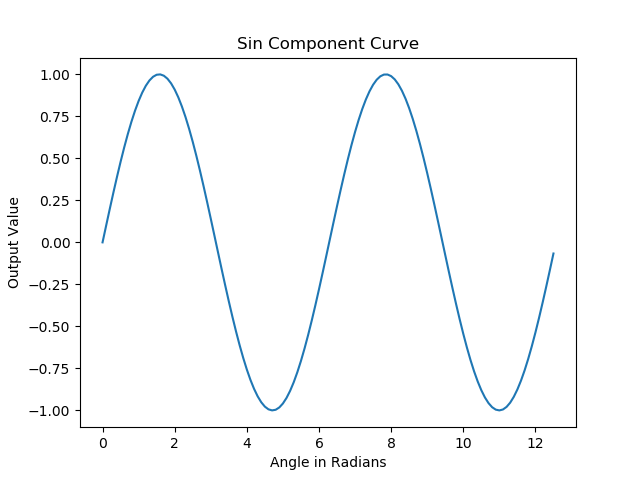
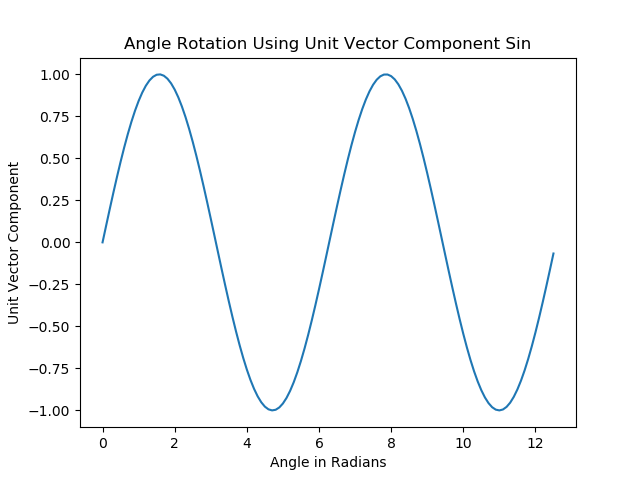
updated results

Changed region(s): [[0.1875, 0.0625, 0.8125, 0.125], [0.0, 0.3438, 0.0312, 0.6875]]

diff --git a/turtles_test/t.py b/turtles_test/t.py
@@ -5,9 +5,9 @@ import numpy as np
 # y = np.sin(x)
 
 # plt.plot(x,y)
-# plt.title('Sin Component Curve')
+# plt.title('Angle Rotation Using Unit Vector Component Sin')
 # plt.xlabel('Angle in Radians')
-# plt.ylabel('Output Value')
+# plt.ylabel('Unit Vector Component')
 # plt.show()
 
 # x = np.arange(0,4*np.pi,0.1)
@@ -16,29 +16,48 @@ import numpy as np
 # y = y-180
 
 # plt.plot(x,y)
-# plt.title('Traditional Angle Curve')
+# plt.title('Angle Rotation Using a Single Output θ')
 # plt.xlabel('Angle in Radians')
-# plt.ylabel('Output Value')
+# plt.ylabel('Rotation in Degrees')
 # plt.yticks(np.arange(-180,181,step=45))
 # plt.show()
 
-x = 1
-y = 1
-y = np.arctan2(y,x)
-plt.plot(x,y)
+# ===================================
 
-x = 2
-y = 1
-y = np.arctan2(y,x)
-plt.plot(x,y)
+all_diff = [2.4583740234375, 0.13848876953125, 1.2057304382324219, 1.9220046997070312, 0.634429931640625, 0.4071044921875, 1.7841796875, 0.54888916015625, 2.3044891357421875, 0.49176025390625, 2.3760986328125, 1.8074493408203125, 0.275390625, 6.0831298828125, 1.618133544921875, 0.852783203125, 0.46462249755859375, 3.6235885620117188, 1.1817626953125, 0.3181610107421875, 0.35687255859375, 3.5180015563964844, 26.41889190673828, 2.295501708984375, 0.4535369873046875, 0.202239990234375, 0.52142333984375, 0.2180004119873047, 2.576751708984375, 1.9674072265625, 5.449432373046875, 1.060882568359375, 1.6855144500732422, 2.6428985595703125, 5.05401611328125, 3.975738525390625, 3.6961212158203125, 1.1099395751953125, 1.2656402587890625, 2.763519287109375, 1.924774169921875, 3.7316436767578125, 0.2851066589355469, 0.331512451171875, 0.0932769775390625, 0.1450958251953125, 36.25994873046875, 0.8679962158203125, 1.16680908203125, 0.02651214599609375, 0.16404342651367188, 1.53875732421875, 3.73492431640625, 0.212738037109375, 1.3660516738891602, 2.692626953125, 0.276123046875, 1.79345703125, 2.396514892578125, 0.7890090942382812, 2.422698974609375, 0.46026611328125, 0.3124237060546875, 0.3054351806640625, 0.1989898681640625, 0.3315086364746094, 1.723480224609375, 2.27825927734375, 3.6480712890625, 0.436248779296875, 1.35052490234375, 1.2551803588867188, 2.82598876953125, 3.9319915771484375, 1.4234132766723633, 0.43121337890625, 2.298004150390625, 1.29571533203125, 7.429901123046875, 1.004425048828125, 1.6019058227539062, 1.586883544921875, 0.19305419921875, 0.86273193359375, 1.4051513671875, 0.866302490234375, 2.4037513732910156, 0.9731941223144531, 2.64984130859375, 0.40702056884765625, 0.888092041015625, 3.5548095703125, 0.6265525817871094, 0.3838920593261719, 1.8700237274169922, 0.8464174270629883, 7.9720458984375, 0.2597503662109375, 1.514984130859375, 1.1167182922363281, 1.3697357177734375, 2.624237060546875, 0.511016845703125, 1.1594171524047852, 1.2856063842773438, 1.9842758178710938, 5.5021514892578125, 2.441986083984375, 0.5258026123046875, 1.80657958984375, 0.61981201171875, 2.956085205078125, 0.8437652587890625, 1.861964225769043, 0.30322265625, 1.2182464599609375, 4.6258544921875, 0.17329025268554688, 0.093536376953125, 1.52618408203125, 0.4974212646484375, 0.03558349609375, 2.6154937744140625, 0.807830810546875, 2.1139488220214844, 1.592376708984375, 0.8379974365234375, 0.40411376953125, 1.257171630859375, 1.081756591796875, 2.2330322265625, 4.355072021484375, 0.4518771171569824, 0.3221435546875, 1.208740234375, 2.2736053466796875, 3.3062591552734375, 1.6346588134765625, 0.7573394775390625, 3.013317346572876, 1.8863525390625, 2.1791839599609375, 0.135498046875, 2.843852996826172, 0.633026123046875, 6.165740966796875, 0.17863082885742188, 25.612045288085938, 0.1391448974609375, 2.881500244140625, 0.4660453796386719, 0.8631935119628906, 34.01234817504883, 1.7182846069335938, 0.66534423828125, 2.2617950439453125, 1.1108760833740234, 1.002410888671875, 2.2101593017578125, 1.84326171875, 1.3743209838867188, 2.7861175537109375, 0.265533447265625, 3.01953125, 1.3416123390197754, 0.13582324981689453, 5.963134765625, 3.61566162109375, 1.4912109375, 1.2940673828125, 1.36370849609375, 1.693084716796875, 1.755117416381836, 0.823944091796875, 1.4389142990112305, 2.3909912109375, 1.55072021484375, 0.431640625, 1.71392822265625, 2.88970947265625]
+bins_def = np.arange(max(360,np.max(all_diff)))
+# # hist,bins = np.histogram(all_diff,bins = bins_def)
+# # plt.text(100,50,'mean: {:3f}\nmedian: {:3f}'.format(np.mean(all_diff),np.median(all_diff)))
 
-x = 1
-y = 2
-y = np.arctan2(y,x)
-plt.plot(x,y)
+# f, (ax, ax2) = plt.subplots(2, 1, sharex=True)
+# ax.hist(all_diff,bins_def)
+# ax2.hist(all_diff,bins_def)
+# ax.set_ylim(max(all_diff)-100, max(all_diff))  # outliers only
+# ax2.set_ylim(0, 100)  # most of the data
+# plt.show()
 
+# =======
 
-plt.title('Arctan2 Curve')
-plt.xlabel('Angle in Radians')
-plt.ylabel('Output Value')
+hist,bins = np.histogram(all_diff,bins = bins_def)
+
+f, axis = plt.subplots(2, 1, sharex=True)
+axis[0].hist(all_diff,bins_def)
+axis[1].hist(all_diff,bins_def)
+axis[0].set_ylim(max(hist)-max(hist)*.2, max(hist)+max(hist)*.1)
+axis[1].set_ylim(0, max(hist)*.2)
+axis[1].legend().set_visible(False)
+
+axis[0].spines['bottom'].set_visible(False)
+axis[1].spines['top'].set_visible(False)
+# axis[0].xaxis.tick_top()
+# axis[0].tick_params(labeltop='off')
+axis[1].xaxis.tick_bottom()
+d = .015
+kwargs = dict(transform=axis[0].transAxes, color='k', clip_on=False)
+axis[0].plot((-d,+d),(-d,+d), **kwargs)
+axis[0].plot((1-d,1+d),(-d,+d), **kwargs)
+kwargs.update(transform=axis[1].transAxes)
+axis[1].plot((-d,+d),(1-d,1+d), **kwargs)
+axis[1].plot((1-d,1+d),(1-d,1+d), **kwargs)
+axis[0].xlabel("Title")
 plt.show()

diff --git a/turtles_test/utils/test.py b/turtles_test/utils/test.py
@@ -59,25 +59,54 @@ def test_stats(args, all_pred, all_targ, all_diff):
 	# plot confusion matrix plot
 	
 	print("max:",max(all_pred))
-	classes = np.arange(0,max(all_pred)+1)
+	
+
+	# classes = np.arange(0,max(max(all_pred),max(all_targ))+1)
 	trig = 'Trig Component ' if args.separate_trig and args.type=='regression' else ''
-	if(args.type=='classification' and not args.hierarchy):
-		trig = str(args.nClasses)+' '
-	plot_confusion_matrix(all_pred.astype(np.int32), all_targ.astype(np.int32), classes)
-	plt.title(("{} {}Error - ".format(args.type.title(),trig)+str(args.animal).title()))
-	plt.xlabel("True Label")
-	plt.ylabel("Predicted Label")
-	plt.show()
+	# if(args.type=='classification' and not args.hierarchy):
+	# 	trig = str(args.nClasses)+' '
+	# plot_confusion_matrix(all_pred.astype(np.int32), all_targ.astype(np.int32), classes)
+	# plt.title(("{} {}Error - ".format(args.type.title(),trig)+str(args.animal).title()))
+	# plt.xlabel("True Label")
+	# plt.ylabel("Predicted Label")
+	# plt.show()
+
+	# print(list(all_diff))
 
 	# ===============================================
 	# Plot error histogram
 	bins_def = np.arange(max(360,np.max(all_diff)))
 	# hist,bins = np.histogram(all_diff,bins = bins_def)
-	plt.text(100,50,'mean: {:3f}\nmedian: {:3f}'.format(np.mean(all_diff),np.median(all_diff)))
-	plt.hist(all_diff,bins_def)
-	plt.title('{} {}Error - '.format(args.type.title(),trig)+str(args.animal).title())
+	# plt.text(100,50,'mean: {:3f}\nmedian: {:3f}'.format(np.mean(all_diff),np.median(all_diff)))
+	
+	hist,bins = np.histogram(all_diff,bins = bins_def)
+
+	f, (ax,ax2) = plt.subplots(2, 1, sharex=True)
+	ax.hist(all_diff,bins_def)
+	ax2.hist(all_diff,bins_def)
+	ax.set_ylim(max(hist)-max(hist)*.2, max(hist)+max(hist)*.1)
+	ax2.set_ylim(0, max(hist)*.2)
+	ax2.legend().set_visible(False)
+
+	ax.spines['bottom'].set_visible(False)
+	ax2.spines['top'].set_visible(False)
+	ax.xaxis.tick_top()
+	ax.tick_params(labeltop='off')
+	ax2.xaxis.tick_bottom()
+	d = .015
+	kwargs = dict(transform=ax.transAxes, color='k', clip_on=False)
+	ax.plot((-d,+d),(-d,+d), **kwargs)
+	ax.plot((1-d,1+d),(-d,+d), **kwargs)
+	kwargs.update(transform=ax2.transAxes)
+	ax2.plot((-d,+d),(1-d,1+d), **kwargs)
+	ax2.plot((1-d,1+d),(1-d,1+d), **kwargs)
+
+	# plt.hist(all_diff,bins_def)
+	t = '{} {}Error - '.format(args.type.title(),trig)+str(args.animal).title()
+	ax.set_title(t)
 	plt.xlabel('Difference Between Predicted and True Labels')
-	plt.ylabel('Frequency in Test Set')
+	# plt.ylabel('Frequency in Test Set')
+	f.text(0.04, 0.5, 'Frequency in Test Set', va='center', rotation='vertical')
 	plt.show()
 
 	# ===============================================

diff --git a/turtles_test/train.py b/turtles_test/train.py
@@ -115,23 +115,25 @@ def example_function(model, args):
 	data = data.to(args.device)
 	target = target.to(args.device)
 
-	# if(args.hierarchy):
+	# grid = utils.make_grid(images)
+	# plt.imshow(grid.numpy().transpose((1, 2, 0)))
+	# plt.axis('off')
+	# # plt.title(args.type+'\nPred: {}\nTrue: {}'.format(angles.detach().cpu().numpy(),pred.detach().cpu().int().numpy()))
+	# plt.show()
 
-
-
-	# else:
-	# 	output = model(data)
-	# 	output = output.cpu()
-	# 	print(output)
-	# 	print(target)
-	# 	if(args.type.startswith('classification')):
-	# 		pred = output.data.max(1)[1] # get the index of the max log-probability
-	# 		print(pred*(360//args.nClasses))
-	# 	if(args.type.startswith('regression')):
-	# 		if(args.separate_trig):
-	# 			pred = separate_trig_to_angle(output, args)
-	# 		else:
-	# 			pred = output.data.reshape((1,args.batchSz))[0]
+	
+	output = model(data)
+	output = output.cpu()
+	print(output)
+	print(target)
+	if(args.type.startswith('classification')):
+		pred = output.data.max(1)[1] # get the index of the max log-probability
+		print(pred*(360//args.nClasses))
+	if(args.type.startswith('regression')):
+		if(args.separate_trig):
+			pred = separate_trig_to_angle(output, args)
+		else:
+			pred = output.data.reshape((1,args.batchSz))[0]
 
 
 	print(pred)

diff --git a/turtles_test/data.py b/turtles_test/data.py
@@ -98,22 +98,28 @@ class Data_turtles():
 			# =============================================
 			# original image
 			self.ax = plt.gca()
-			self.show_annotation(poly)
-			self.show_MER(mer)
+			# self.show_annotation(poly)
+			# self.show_MER(mer)
+			plt.axis('off')
 			plt.imshow(image)
 			plt.show()
 			# =============================================
 			# rotated image
 			I_rot = rotate_im(image,theta)
-			self.ax = plt.gca()
-			self.show_MER(mer_rot)
-			self.show_annotation(mir)
+			# self.ax = plt.gca()
+			# self.show_MER(mer_rot)
+			# self.show_annotation(mir)
+			# plt.imshow(I_rot)
+			# plt.show()
+			# # =============================================
+			# # final cropped image
+			# I_cropped = I_rot[mir[0,1]:mir[2,1],mir[0,0]:mir[2,0]]
+			# plt.imshow(I_cropped)
+			# plt.show()
+
+
 			plt.imshow(I_rot)
-			plt.show()
-			# =============================================
-			# final cropped image
-			I_cropped = I_rot[mir[0,1]:mir[2,1],mir[0,0]:mir[2,0]]
-			plt.imshow(I_cropped)
+			plt.axis('off')
 			plt.show()
 			# ==============================================
 
